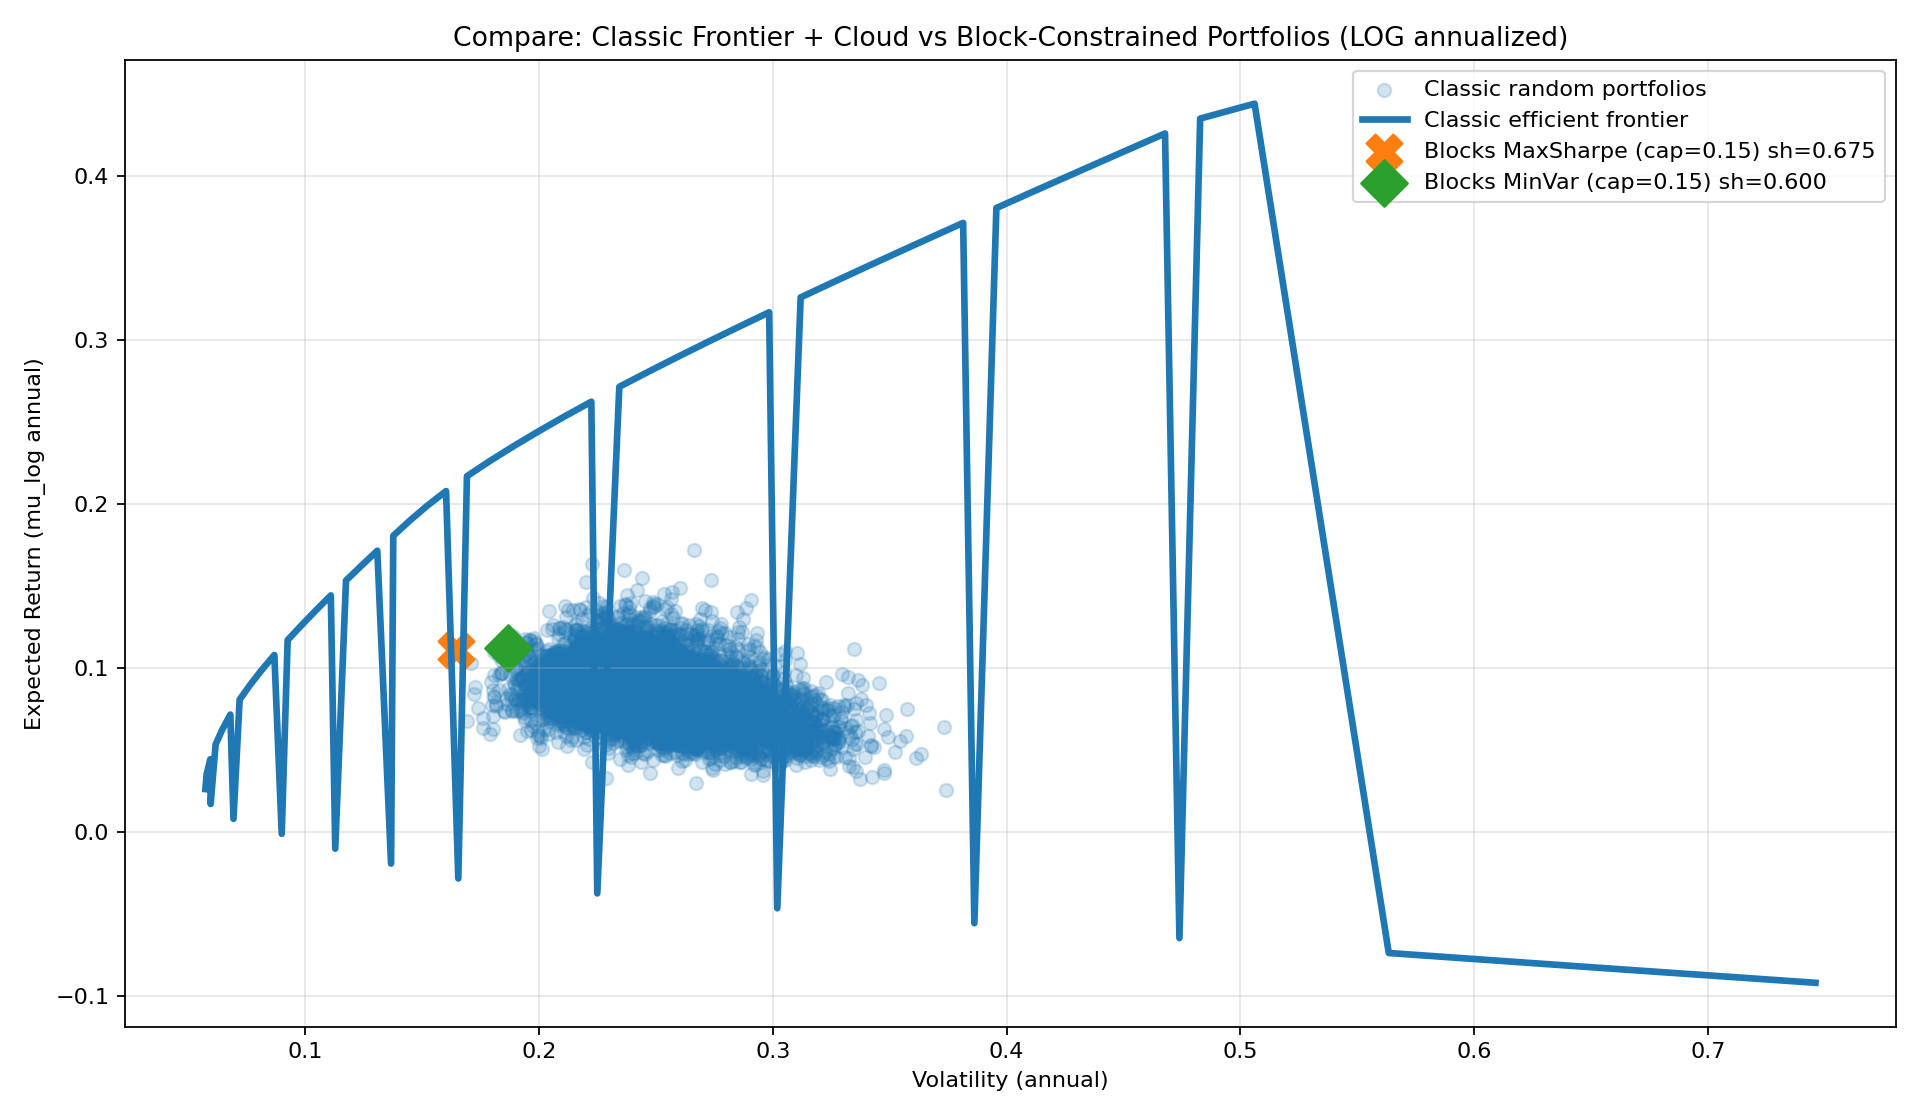
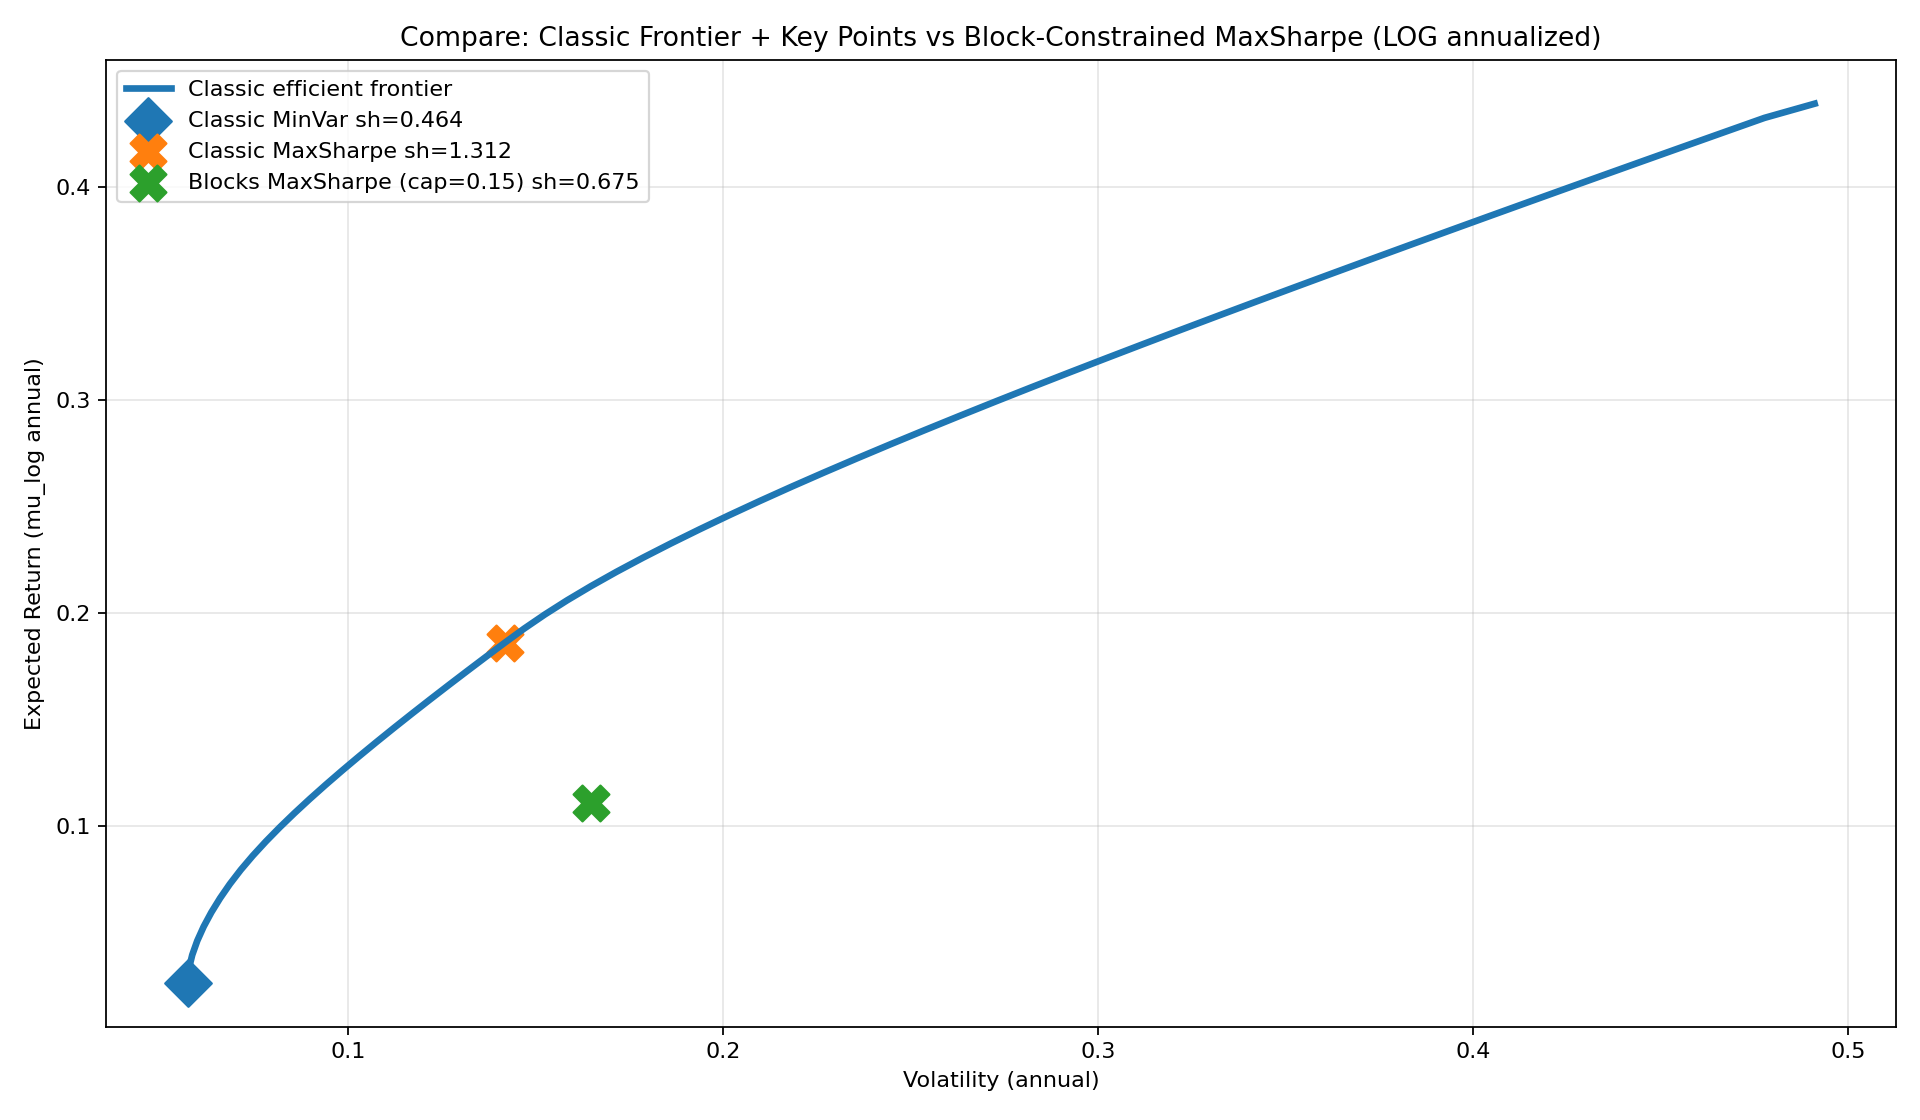
Markowitz clasico con restricciones full

diff --git a/scripts/run_classic.py b/scripts/run_classic.py
@@ -12,8 +12,6 @@ from src.config import DEFAULT_CONFIG, TRADING_DAYS
 from src.markowitz_classic import min_variance, max_sharpe
 from src.utils_portfolio import port_stats_log, annualize_log, log_to_simple_annual
 
-
-ROOT = Path(__file__).resolve().parents[1]
 DATA_DIR = ROOT / "Data"
 
 CFG = DEFAULT_CONFIG
@@ -57,8 +55,11 @@ returns = returns.dropna(how="any")
 mu_log_daily = returns.mean().values
 Sigma_log_daily = returns.cov().values
 
+# risk-free en log diario (coherente con log returns)
+rf_log_daily = rf_annual_simple_to_log_daily(RF_ANNUAL_SIMPLE, PERIODS)
+
 # =========================
-# Min Variance
+# Min Variance (classic)
 # =========================
 w_minvar = min_variance(mu_log_daily, Sigma_log_daily)
 rep_min = portfolio_report_log(w_minvar, mu_log_daily, Sigma_log_daily, RF_ANNUAL_SIMPLE, PERIODS)
@@ -68,9 +69,8 @@ for k, v in rep_min.items():
     print(f"{k:>24}: {v}")
 
 # =========================
-# Max Sharpe
+# Max Sharpe (classic)
 # =========================
-rf_log_daily = rf_annual_simple_to_log_daily(RF_ANNUAL_SIMPLE, PERIODS)
 w_sharpe = max_sharpe(mu_log_daily, Sigma_log_daily, risk_free_rate=rf_log_daily)
 rep_sh = portfolio_report_log(w_sharpe, mu_log_daily, Sigma_log_daily, RF_ANNUAL_SIMPLE, PERIODS)
 
@@ -79,42 +79,82 @@ for k, v in rep_sh.items():
     print(f"{k:>24}: {v}")
 
 # =========================
-# Generate classic frontier + cloud (annual log)
+# Save classic key points (for plotting on frontier)
+# =========================
+classic_points = pd.DataFrame([
+    {
+        "name": "Classic MinVar",
+        "mu_log_annual": rep_min["mu_log_annual"],
+        "vol_annual": rep_min["vol_annual"],
+        "sharpe_annual": rep_min["sharpe_annual"],
+    },
+    {
+        "name": "Classic MaxSharpe",
+        "mu_log_annual": rep_sh["mu_log_annual"],
+        "vol_annual": rep_sh["vol_annual"],
+        "sharpe_annual": rep_sh["sharpe_annual"],
+    },
+])
+
+classic_points_path = DATA_DIR / "classic_points_annual.csv"
+classic_points.to_csv(classic_points_path, index=False)
+print("✔ Saved:", classic_points_path)
+
+# =========================
+# Generate classic cloud + frontier (annual log)
 # =========================
 np.random.seed(42)
 
-N_PORTFOLIOS = 8000   # nube
-N_FRONTIER = 60       # puntos de frontera
+N_PORTFOLIOS = 8000  # nube
+N_FRONTIER = 80      # puntos de frontera (más denso para curva más suave)
 
-# Random portfolios (cloud)
+# ----- Cloud: random portfolios (long-only)
 weights = np.random.dirichlet(np.ones(returns.shape[1]), size=N_PORTFOLIOS)
 
 cloud_rows = []
 for w in weights:
-    mu_d, vol_d, sh_d = port_stats_log(w, mu_log_daily, Sigma_log_daily, rf_log_daily=rf_log_daily)
+    mu_d, vol_d, _ = port_stats_log(w, mu_log_daily, Sigma_log_daily, rf_log_daily=rf_log_daily)
     mu_a, vol_a = annualize_log(mu_d, vol_d, periods=PERIODS)
     cloud_rows.append({"mu_log_annual": mu_a, "vol_annual": vol_a})
 
 cloud_df = pd.DataFrame(cloud_rows)
 
-# Efficient frontier approximation:
-# sweep target returns between min and max feasible return for long-only
+# ----- Frontier: robust construction
 mu_vec = mu_log_daily
-r_min = float(mu_vec.min())
-r_max = float(mu_vec.max())
-targets = np.linspace(r_min, r_max, N_FRONTIER)
+Sigma = Sigma_log_daily
+n = len(mu_vec)
+
+bounds = tuple((0.0, 1.0) for _ in range(n))
+w0 = np.ones(n) / n
+cons_sum = ({"type": "eq", "fun": lambda w: np.sum(w) - 1.0},)
+
+# Feasible return range (long-only): min/max of mu'w under sum(w)=1, w>=0
+def obj_min_ret(w):
+    return float(w @ mu_vec)
+
+def obj_max_ret(w):
+    return float(-(w @ mu_vec))
+
+res_rmin = minimize(obj_min_ret, w0, method="SLSQP", bounds=bounds, constraints=cons_sum,
+                    options={"maxiter": 4000, "ftol": 1e-12})
+res_rmax = minimize(obj_max_ret, w0, method="SLSQP", bounds=bounds, constraints=cons_sum,
+                    options={"maxiter": 4000, "ftol": 1e-12})
+
+r_min = float(res_rmin.x @ mu_vec)
+r_max = float(res_rmax.x @ mu_vec)
+
+# Grid dentro del rango factible (evita extremos)
+targets = np.linspace(r_min + 0.01 * (r_max - r_min), r_max - 0.01 * (r_max - r_min), N_FRONTIER)
 
 frontier_rows = []
 for tr in targets:
-    # min variance with additional constraint mu'w = tr
-    cons = (
+    cons = [
         {"type": "eq", "fun": lambda w: np.sum(w) - 1.0},
-        {"type": "eq", "fun": lambda w, tr=tr: float(np.dot(w, mu_vec)) - float(tr)},
-    )
-    bnds = tuple((0.0, 1.0) for _ in range(len(mu_vec)))
-    w0 = np.ones(len(mu_vec)) / len(mu_vec)
+        {"type": "ineq", "fun": lambda w, tr=tr: float(w @ mu_vec) - float(tr)},  # mu'w >= tr
+    ]
 
-    res = minimize(lambda w: float(w.T @ Sigma_log_daily @ w), w0, method="SLSQP", bounds=bnds, constraints=cons,
+    res = minimize(lambda w: float(w.T @ Sigma @ w), w0, method="SLSQP",
+                   bounds=bounds, constraints=cons,
                    options={"maxiter": 4000, "ftol": 1e-12})
     if not res.success:
         continue
@@ -122,11 +162,18 @@ for tr in targets:
     w = res.x
     mu_d, vol_d, _ = port_stats_log(w, mu_log_daily, Sigma_log_daily, rf_log_daily=rf_log_daily)
     mu_a, vol_a = annualize_log(mu_d, vol_d, periods=PERIODS)
-    frontier_rows.append({"mu_log_annual": mu_a, "vol_annual": vol_a})
 
-frontier_df = pd.DataFrame(frontier_rows).sort_values("vol_annual")
+    if np.isfinite(mu_a) and np.isfinite(vol_a) and vol_a > 0:
+        frontier_rows.append({"mu_log_annual": mu_a, "vol_annual": vol_a})
 
-# Save
+frontier_df = pd.DataFrame(frontier_rows)
+
+# Ordenar por vol y quitar duplicados de vol (suaviza la línea)
+frontier_df = frontier_df.sort_values("vol_annual").drop_duplicates("vol_annual").reset_index(drop=True)
+
+# =========================
+# Save outputs used by run_compare.py
+# =========================
 cloud_path = DATA_DIR / "cloud_classic_annual.csv"
 frontier_path = DATA_DIR / "frontier_classic_annual.csv"
 

diff --git a/scripts/run_compare.py b/scripts/run_compare.py
@@ -8,10 +8,9 @@ import pandas as pd
 import numpy as np
 import matplotlib.pyplot as plt
 
-from src.markowitz import max_sharpe_with_blocks, min_variance_with_blocks
+from src.markowitz import max_sharpe_with_blocks
 from src.markowitz import rf_simple_annual_to_log_daily
 from src.utils_portfolio import port_stats_log, annualize_log
-
 
 from src.config import DEFAULT_CONFIG, TRADING_DAYS
 CFG = DEFAULT_CONFIG
@@ -50,12 +49,13 @@ def main():
 
     # rf en log diario (consistente con mean_log)
     rf_log_daily = rf_simple_annual_to_log_daily(RISK_FREE_ANNUAL_SIMPLE)
+    rf_log_annual = rf_log_daily * TRADING_DAYS
 
-    # --- leer frontera y nube clásicas ya generadas por run_classic.py (solo plot)
+    # --- leer outputs classic ya generados por run_classic.py
     frontier = pd.read_csv(DATA_DIR / "frontier_classic_annual.csv")
-    cloud = pd.read_csv(DATA_DIR / "cloud_classic_annual.csv")
+    classic_pts = pd.read_csv(DATA_DIR / "classic_points_annual.csv")
 
-    # --- resolver puntos bloqueados
+    # --- resolver punto bloqueado (SOLO MaxSharpe)
     blocks = build_blocks(mean_log.index, meta, TARGETS)
 
     res_sh_b = max_sharpe_with_blocks(
@@ -67,35 +67,30 @@ def main():
         raise RuntimeError("Blocks MaxSharpe no convergió: " + str(res_sh_b.message))
     w_sh_b = res_sh_b.x
 
-    res_mv_b = min_variance_with_blocks(cov_log, blocks, TARGETS, max_weight=MAX_WEIGHT_BLOCKS)
-    if not res_mv_b.success:
-        raise RuntimeError("Blocks MinVar no convergió: " + str(res_mv_b.message))
-    w_mv_b = res_mv_b.x
-
-    # stats diarios (log) -> anualizados (log)
-    sh_mu_d, sh_vol_d, sh_sh_d = port_stats_log(w_sh_b, mean_log, cov_log, rf_log_daily)
-    mv_mu_d, mv_vol_d, mv_sh_d = port_stats_log(w_mv_b, mean_log, cov_log, rf_log_daily)
-
+    # stats diarios (log) -> anualizados (log)  (solo MaxSharpe blocks)
+    sh_mu_d, sh_vol_d, _ = port_stats_log(w_sh_b, mean_log, cov_log, rf_log_daily)
     sh_mu_a, sh_vol_a = annualize_log(sh_mu_d, sh_vol_d)
-    mv_mu_a, mv_vol_a = annualize_log(mv_mu_d, mv_vol_d)
-
-    # Sharpe anual consistente en escala log:
-    # (mu_ann - rf_ann) / vol_ann, con rf_ann = rf_daily*252
-    rf_log_annual = rf_log_daily * 252.0
     sh_sh_a = (sh_mu_a - rf_log_annual) / sh_vol_a if sh_vol_a > 0 else np.nan
-    mv_sh_a = (mv_mu_a - rf_log_annual) / mv_vol_a if mv_vol_a > 0 else np.nan
+
+    # --- extraer puntos classic: MinVar y MaxSharpe
+    minvar_row = classic_pts[classic_pts["name"] == "Classic MinVar"].iloc[0]
+    maxsh_row = classic_pts[classic_pts["name"] == "Classic MaxSharpe"].iloc[0]
 
     # --- plot compare
     plt.figure(figsize=(12, 7))
-    plt.scatter(cloud["vol_annual"], cloud["mu_log_annual"], alpha=0.20, label="Classic random portfolios")
     plt.plot(frontier["vol_annual"], frontier["mu_log_annual"], linewidth=3, label="Classic efficient frontier")
 
+    # Classic key points
+    plt.scatter([minvar_row["vol_annual"]], [minvar_row["mu_log_annual"]],
+                marker="D", s=220, label=f'Classic MinVar sh={minvar_row["sharpe_annual"]:.3f}')
+    plt.scatter([maxsh_row["vol_annual"]], [maxsh_row["mu_log_annual"]],
+                marker="X", s=260, label=f'Classic MaxSharpe sh={maxsh_row["sharpe_annual"]:.3f}')
+
+    # Blocks MaxSharpe point
     plt.scatter([sh_vol_a], [sh_mu_a], marker="X", s=260,
                 label=f"Blocks MaxSharpe (cap={MAX_WEIGHT_BLOCKS}) sh={sh_sh_a:.3f}")
-    plt.scatter([mv_vol_a], [mv_mu_a], marker="D", s=220,
-                label=f"Blocks MinVar (cap={MAX_WEIGHT_BLOCKS}) sh={mv_sh_a:.3f}")
 
-    plt.title("Compare: Classic Frontier + Cloud vs Block-Constrained Portfolios (LOG annualized)")
+    plt.title("Compare: Classic Frontier + Key Points vs Block-Constrained MaxSharpe (LOG annualized)")
     plt.xlabel("Volatility (annual)")
     plt.ylabel("Expected Return (mu_log annual)")
     plt.grid(True, alpha=0.3)
@@ -106,9 +101,10 @@ def main():
     plt.savefig(out, dpi=160)
     print("✔ Saved:", out)
 
-    print("\n--- BLOCKS POINTS (annual log) ---")
-    print(f"Blocks MaxSharpe: mu_log={sh_mu_a:.6f} vol={sh_vol_a:.6f} sharpe={sh_sh_a:.6f}")
-    print(f"Blocks MinVar:    mu_log={mv_mu_a:.6f} vol={mv_vol_a:.6f} sharpe={mv_sh_a:.6f}")
+    print("\n--- POINTS (annual log) ---")
+    print(f'Classic MinVar:    mu_log={minvar_row["mu_log_annual"]:.6f} vol={minvar_row["vol_annual"]:.6f} sharpe={minvar_row["sharpe_annual"]:.6f}')
+    print(f'Classic MaxSharpe: mu_log={maxsh_row["mu_log_annual"]:.6f} vol={maxsh_row["vol_annual"]:.6f} sharpe={maxsh_row["sharpe_annual"]:.6f}')
+    print(f"Blocks MaxSharpe:  mu_log={sh_mu_a:.6f} vol={sh_vol_a:.6f} sharpe={sh_sh_a:.6f}")
 
 
 if __name__ == "__main__":

diff --git a/scripts/run_blocks.py b/scripts/run_blocks.py
@@ -7,7 +7,8 @@ sys.path.append(str(ROOT))
 import numpy as np
 import pandas as pd
 
-from src.markowitz import max_sharpe_with_blocks, min_variance_with_blocks
+from src.markowitz import max_sharpe_with_blocks
+# from src.markowitz import min_variance_with_blocks  # <- (comentado) NO usamos MinVar
 
 from src.config import DEFAULT_CONFIG, TRADING_DAYS
 CFG = DEFAULT_CONFIG
@@ -15,8 +16,8 @@ CFG = DEFAULT_CONFIG
 BLOCKS_ORDER = CFG.blocks_order
 TARGETS = CFG.targets
 
-RISK_FREE_RATE = CFG.risk_free_annual_simple      # ← ESTE es el punto
-MAX_WEIGHT_PER_ASSET = CFG.max_weight_blocks      # o CFG.max_weight_per_asset según tu config
+RISK_FREE_RATE = CFG.risk_free_annual_simple
+MAX_WEIGHT_PER_ASSET = CFG.max_weight_blocks
 
 
 def build_blocks(tickers, meta, targets):
@@ -133,7 +134,7 @@ def main():
     print("Max weight per asset:", MAX_WEIGHT_PER_ASSET)
 
     # ==============================
-    # MAX SHARPE
+    # MAX SHARPE (BLOCKS)
     # ==============================
     print("\n==============================")
     print("MAX SHARPE WITH BLOCK TARGETS")
@@ -147,36 +148,38 @@ def main():
 
     if not res_sh.success:
         print("❌ Max Sharpe no convergió:", res_sh.message)
-    else:
-        # ✅ crudo/alineado (para cálculos)
-        w_sh_raw = pd.Series(res_sh.x, index=mean_returns.index)
-        # ✅ ordenado (para output)
-        w_sh = w_sh_raw.sort_values(ascending=False)
+        return
 
-        print("✔ Converged:", res_sh.success)
-        print("Message:", res_sh.message)
-        print("Sum weights:", float(w_sh_raw.sum()))
-        print_exposures(w_sh_raw, meta2, TARGETS)
+    # ✅ crudo/alineado (para cálculos)
+    w_sh_raw = pd.Series(res_sh.x, index=mean_returns.index)
+    # ✅ ordenado (para output)
+    w_sh = w_sh_raw.sort_values(ascending=False)
 
-        save_detailed_weights(data_dir, "weights_maxsharpe_blocks_detailed.csv", w_sh, meta2)
+    print("✔ Converged:", res_sh.success)
+    print("Message:", res_sh.message)
+    print("Sum weights:", float(w_sh_raw.sum()))
+    print_exposures(w_sh_raw, meta2, TARGETS)
 
-        print("\nTop 10 weights (Max Sharpe):")
-        print(w_sh.head(10))
+    save_detailed_weights(data_dir, "weights_maxsharpe_blocks_detailed.csv", w_sh, meta2)
 
-        print_block_stats(w_sh_raw, meta2)
+    print("\nTop 10 weights (Max Sharpe):")
+    print(w_sh.head(10))
 
-        mu_d, v_d, s_d, mu_a, v_a, s_a, r_a_simple = port_stats_log(
-            w_sh_raw.values, mean_returns, cov_matrix,
-            rf_log_daily=rf_log_daily,
-            periods=TRADING_DAYS
-        )
-        print(f"\nMaxSharpe stats (LOG input, aligned):")
-        print(f"Daily:  mu_log={mu_d:.6f} vol={v_d:.6f} sharpe={s_d:.6f}")
-        print(f"Annual: mu_log={mu_a:.3f} vol={v_a:.3f} sharpe={s_a:.3f} | simple_equiv_ret={r_a_simple:.3f}")
+    print_block_stats(w_sh_raw, meta2)
+
+    mu_d, v_d, s_d, mu_a, v_a, s_a, r_a_simple = port_stats_log(
+        w_sh_raw.values, mean_returns, cov_matrix,
+        rf_log_daily=rf_log_daily,
+        periods=TRADING_DAYS
+    )
+    print(f"\nMaxSharpe stats (LOG input, aligned):")
+    print(f"Daily:  mu_log={mu_d:.6f} vol={v_d:.6f} sharpe={s_d:.6f}")
+    print(f"Annual: mu_log={mu_a:.3f} vol={v_a:.3f} sharpe={s_a:.3f} | simple_equiv_ret={r_a_simple:.3f}")
 
     # ==============================
-    # MIN VAR
+    # MIN VAR (BLOCKS)  <-- COMENTADO
     # ==============================
+    """
     print("\n==============================")
     print("MIN VAR WITH BLOCK TARGETS")
     print("==============================")
@@ -212,6 +215,7 @@ def main():
         print(f"\nMinVar stats (LOG input, aligned):")
         print(f"Daily:  mu_log={mu_d:.6f} vol={v_d:.6f} sharpe={s_d:.6f}")
         print(f"Annual: mu_log={mu_a:.3f} vol={v_a:.3f} sharpe={s_a:.3f} | simple_equiv_ret={r_a_simple:.3f}")
+    """
 
 
 if __name__ == "__main__":
